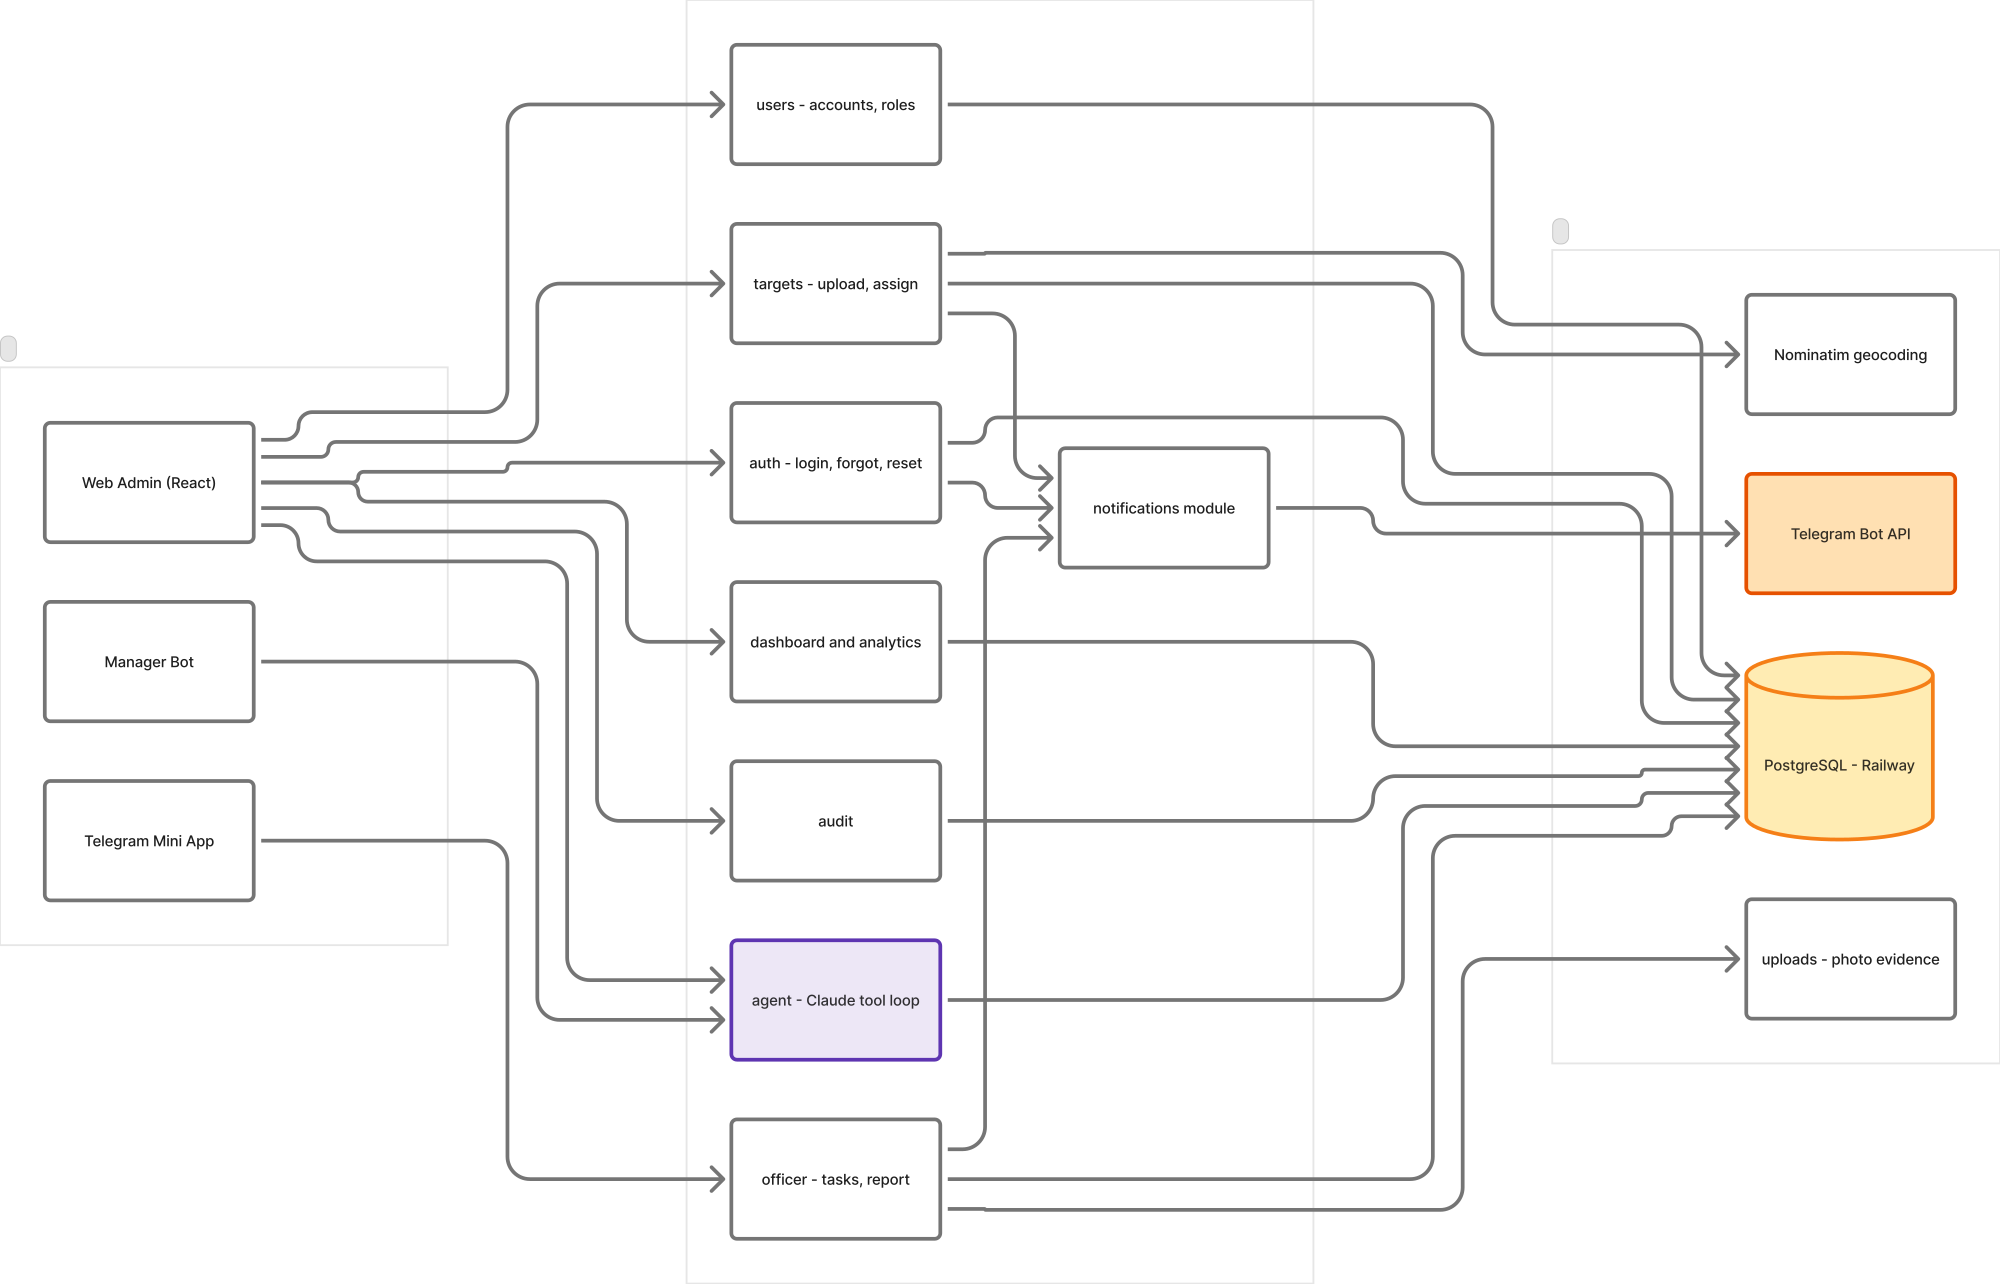
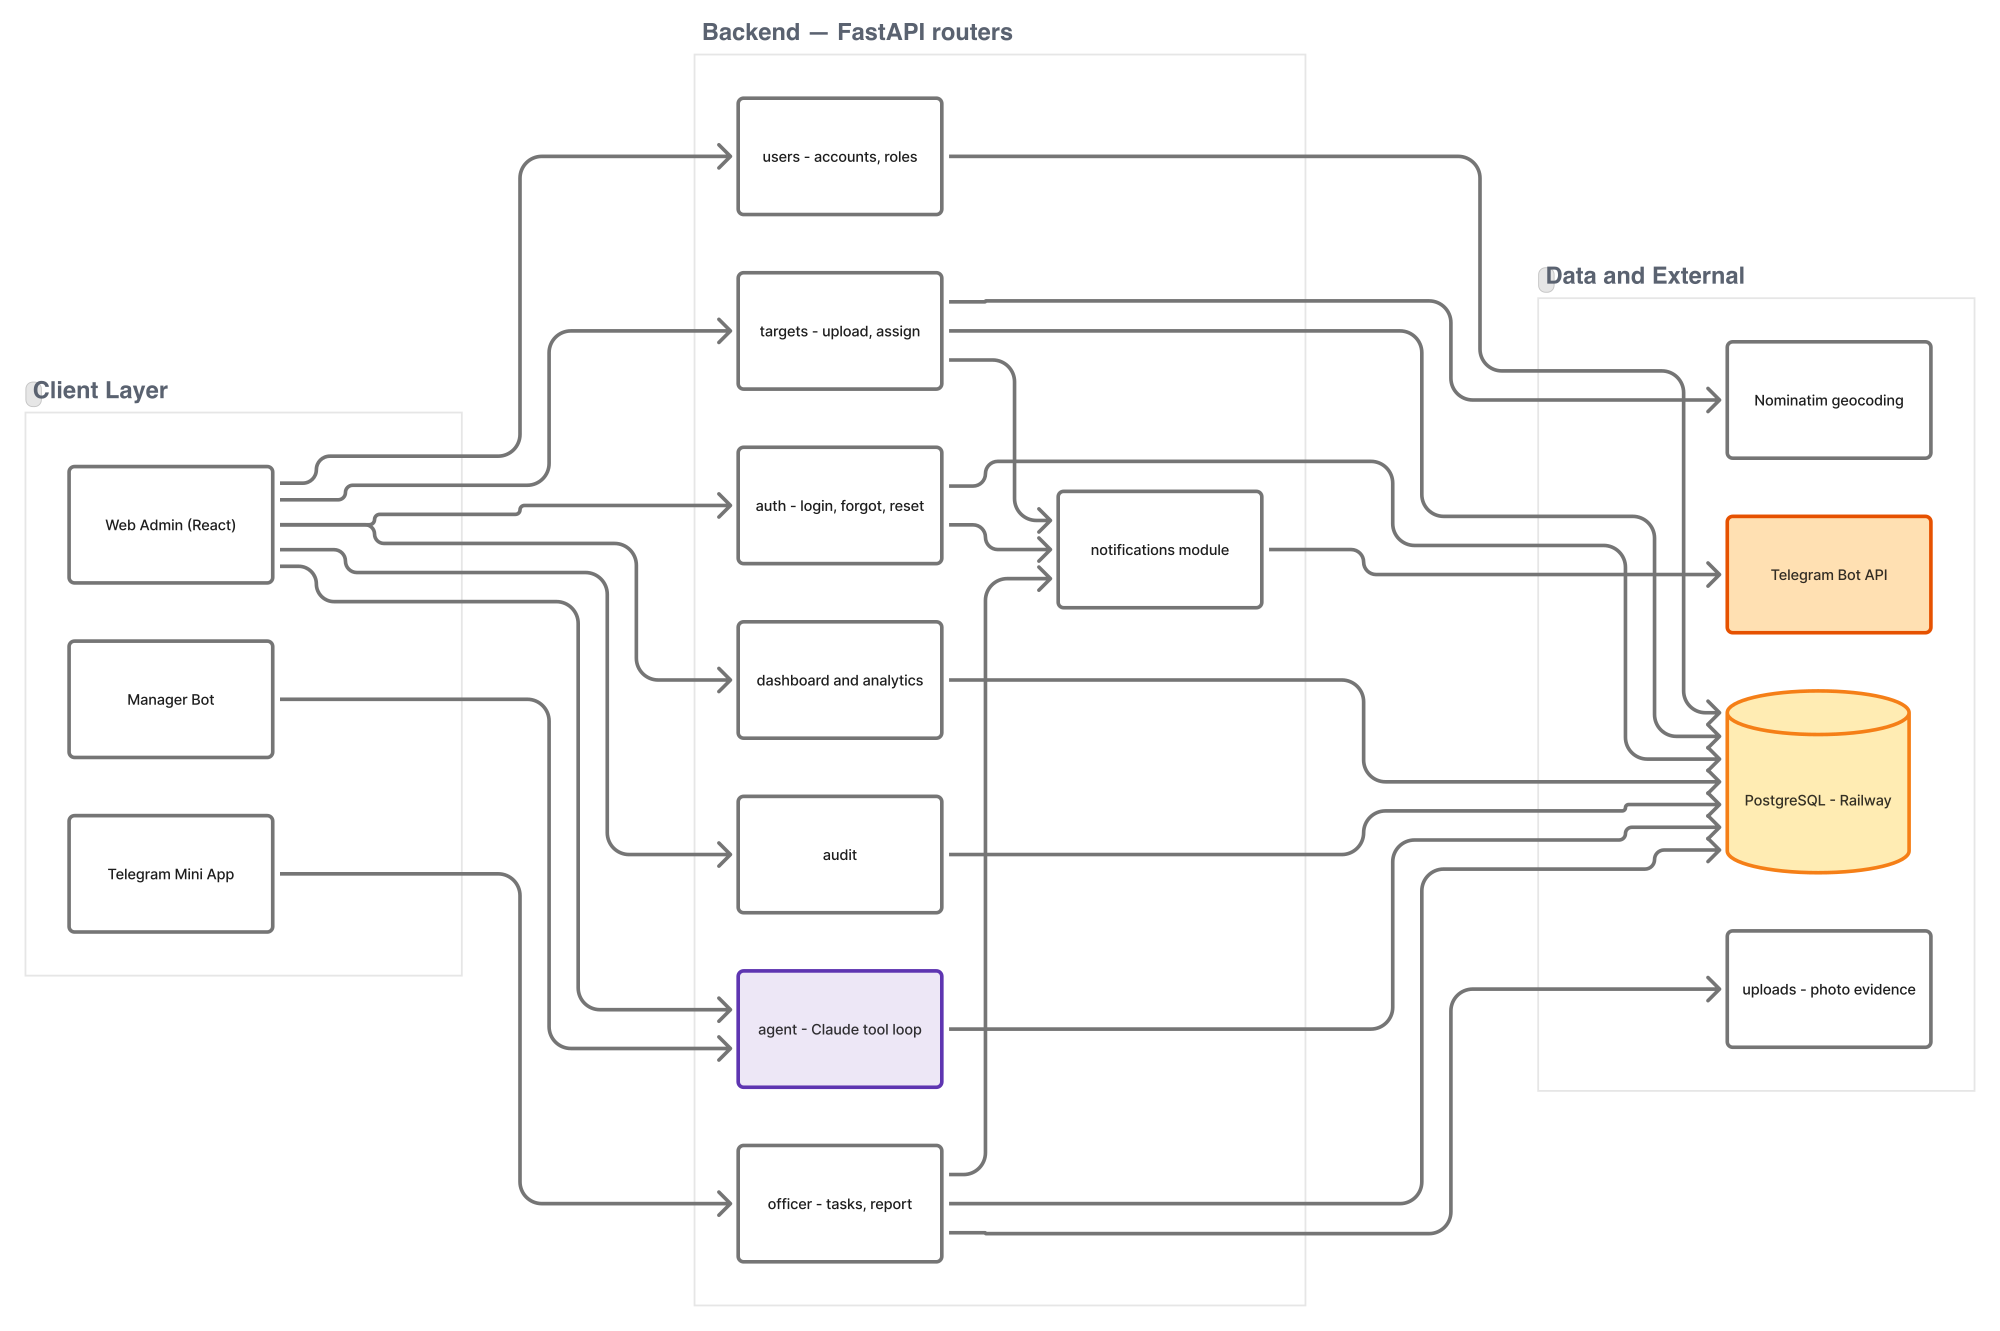
Judul lapisan pada arsitektur & komponen, activity dipecah tiga kolom
Judul subgraph ("Client Tier", "Backend — FastAPI routers", …) tidak pernah
digambar FigJam — namanya hanya ada sebagai id grup di dalam SVG. Disisipkan
sebagai elemen <text> ke SVG lalu di-render ulang, bukan dicap ke PNG, supaya
tetap tajam di resolusi berapa pun. Kuota tulis Figma MCP habis, jadi
perbaikannya dilakukan di berkas vektor hasil ekspor.

Activity 1100x7347 (rasio 1:6,7) mustahil muat di halaman potret tanpa
mengecilkan teks sampai tak terbaca. Dipotong di celah antar-simpul terdekat
dengan sepertiga dan dua-pertiga tinggi, disusun tiga kolom (3548x2710, rasio
1,31). Potongan pertama sempat memakai celah TERPANJANG dan menghasilkan kolom
timpang 39:61 yang tetap kepanjangan — patokannya harus jarak ke titik bagi,
bukan lebar celahnya.

FIGMA_SOURCES.md mencatat dua hal yang belum beres: dua pasang label bertumpuk
di diagram arsitektur (tidak bisa digeser dari SVG karena satu grup dengan garis
konektornya), dan teks badan Group Report yang masih menyebut Supabase.

diff --git a/uml/FIGMA_SOURCES.md b/uml/FIGMA_SOURCES.md
@@ -35,10 +35,32 @@ pernyataan yang tidak sesuai sistem sebenarnya:
 
 ## Catatan bentuk
 
-`08_activity_diagram.png` berukuran 1100x7347 karena alurnya linear empat belas
-langkah. Lebarnya sengaja tidak dikecilkan supaya teksnya tetap terbaca saat
-dicetak; kalau perlu muat satu halaman, potong di simpul keputusan
-"Photo evidence attached?" dan sajikan sebagai dua gambar.
+**Activity.** Alurnya linear empat belas langkah, jadi keluaran Figma-nya 1100x7347
+(rasio 1:6,7) — mustahil muat di halaman potret tanpa mengecilkan teks sampai tak
+terbaca. `08_activity_diagram.png` yang tersimpan di sini adalah versi **tiga kolom**
+(3548x2710, rasio 1,31): gambar tinggi itu dipotong di celah antar-simpul terdekat
+dengan sepertiga dan dua-pertiga tinggi, lalu disusun bersebelahan dengan pemisah
+dan judul kolom. Titik potong WAJIB di celah — memotong di tengah kotak memenggal
+teksnya. Group Report memakai varian **dua kolom** karena slot gambar di sana
+berasio tegak (0,71); tiga kolom yang melebar akan terlalu banyak bermargin di situ.
+
+**Judul lapisan.** Subgraph Mermaid ter-render sebagai pita bergaris tanpa judul —
+nama lapisannya hanya ada sebagai id grup di dalam SVG dan tidak pernah digambar.
+Judul "Client Tier", "Application Tier", dan seterusnya disisipkan sebagai elemen
+`<text>` ke dalam SVG lalu di-render ulang, bukan dicap ke PNG, supaya tetap tajam.
+
+## Yang masih perlu dikerjakan
+
+- **Dua pasang label bertumpuk di diagram arsitektur**: "HTTPS + JWT" menimpa
+  "HTTPS + initData HMAC", dan "SQL" menimpa "writes photos". Labelnya tidak bisa
+  digeser dari SVG karena satu grup dengan garis konektornya — geser labelnya,
+  garisnya ikut pindah. Perbaikannya di Figma: perpendek teks label atau geser
+  simpulnya. Tertunda karena kuota panggilan Figma MCP paket Starter habis.
+- **Teks badan Group Report masih menyebut Supabase** ("Supabase Auth for admin",
+  "photo upload to object storage") di bagian Level 1 - Major Processes. Gambarnya
+  sudah diganti, teksnya belum — menyunting teks di dalam PDF berisiko merusak
+  penyematan font. Perlu dokumen sumbernya (Google Docs/Word), yang tidak ada di
+  folder SUBMISSION.
 
 ## Cara memperbarui
 
